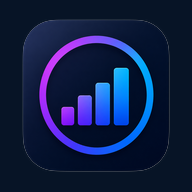
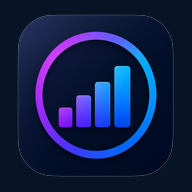
fix: 홈화면 앱 아이콘 아트웍 77% → 82% 확대

Changed region(s): [[0.1562, 0.1562, 0.8438, 0.8438], [0.0938, 0.0625, 0.9062, 0.9375]]

diff --git a/dist/sw.js b/dist/sw.js
@@ -1,1 +1,1 @@
-if(!self.define){let e,i={};const n=(n,s)=>(n=new URL(n+".js",s).href,i[n]||new Promise(i=>{if("document"in self){const e=document.createElement("script");e.src=n,e.onload=i,document.head.appendChild(e)}else e=n,importScripts(n),i()}).then(()=>{let e=i[n];if(!e)throw new Error(`Module ${n} didn’t register its module`);return e}));self.define=(s,r)=>{const o=e||("document"in self?document.currentScript.src:"")||location.href;if(i[o])return;let t={};const c=e=>n(e,o),l={module:{uri:o},exports:t,require:c};i[o]=Promise.all(s.map(e=>l[e]||c(e))).then(e=>(r(...e),t))}}define(["./workbox-9c191d2f"],function(e){"use strict";self.skipWaiting(),e.clientsClaim(),e.precacheAndRoute([{url:"index.html",revision:"007195c475507adc4b915a2b81bc2652"},{url:"assets/workbox-window.prod.es5-BBnX5xw4.js",revision:null},{url:"assets/index-Ddgc7uwP.css",revision:null},{url:"assets/index-C95sTcCg.js",revision:null},{url:"portview-icon-192.png",revision:"2ad02fc7c8e43bae2da1a24929c35ff0"},{url:"portview-icon-512.png",revision:"9e06e2838f27ec0deca2180d68096471"},{url:"manifest.webmanifest",revision:"2777261a51d7549c56d8a90134afefab"}],{}),e.cleanupOutdatedCaches(),e.registerRoute(new e.NavigationRoute(e.createHandlerBoundToURL("index.html")))});
+if(!self.define){let e,i={};const n=(n,s)=>(n=new URL(n+".js",s).href,i[n]||new Promise(i=>{if("document"in self){const e=document.createElement("script");e.src=n,e.onload=i,document.head.appendChild(e)}else e=n,importScripts(n),i()}).then(()=>{let e=i[n];if(!e)throw new Error(`Module ${n} didn’t register its module`);return e}));self.define=(s,r)=>{const o=e||("document"in self?document.currentScript.src:"")||location.href;if(i[o])return;let t={};const l=e=>n(e,o),c={module:{uri:o},exports:t,require:l};i[o]=Promise.all(s.map(e=>c[e]||l(e))).then(e=>(r(...e),t))}}define(["./workbox-9c191d2f"],function(e){"use strict";self.skipWaiting(),e.clientsClaim(),e.precacheAndRoute([{url:"index.html",revision:"007195c475507adc4b915a2b81bc2652"},{url:"assets/workbox-window.prod.es5-BBnX5xw4.js",revision:null},{url:"assets/index-Ddgc7uwP.css",revision:null},{url:"assets/index-C95sTcCg.js",revision:null},{url:"portview-icon-192.png",revision:"0bf5f21a0f8155f8c412f835b6c12a1d"},{url:"portview-icon-512.png",revision:"3454f074c6d354d2ff717b8759722cde"},{url:"manifest.webmanifest",revision:"2777261a51d7549c56d8a90134afefab"}],{}),e.cleanupOutdatedCaches(),e.registerRoute(new e.NavigationRoute(e.createHandlerBoundToURL("index.html")))});
